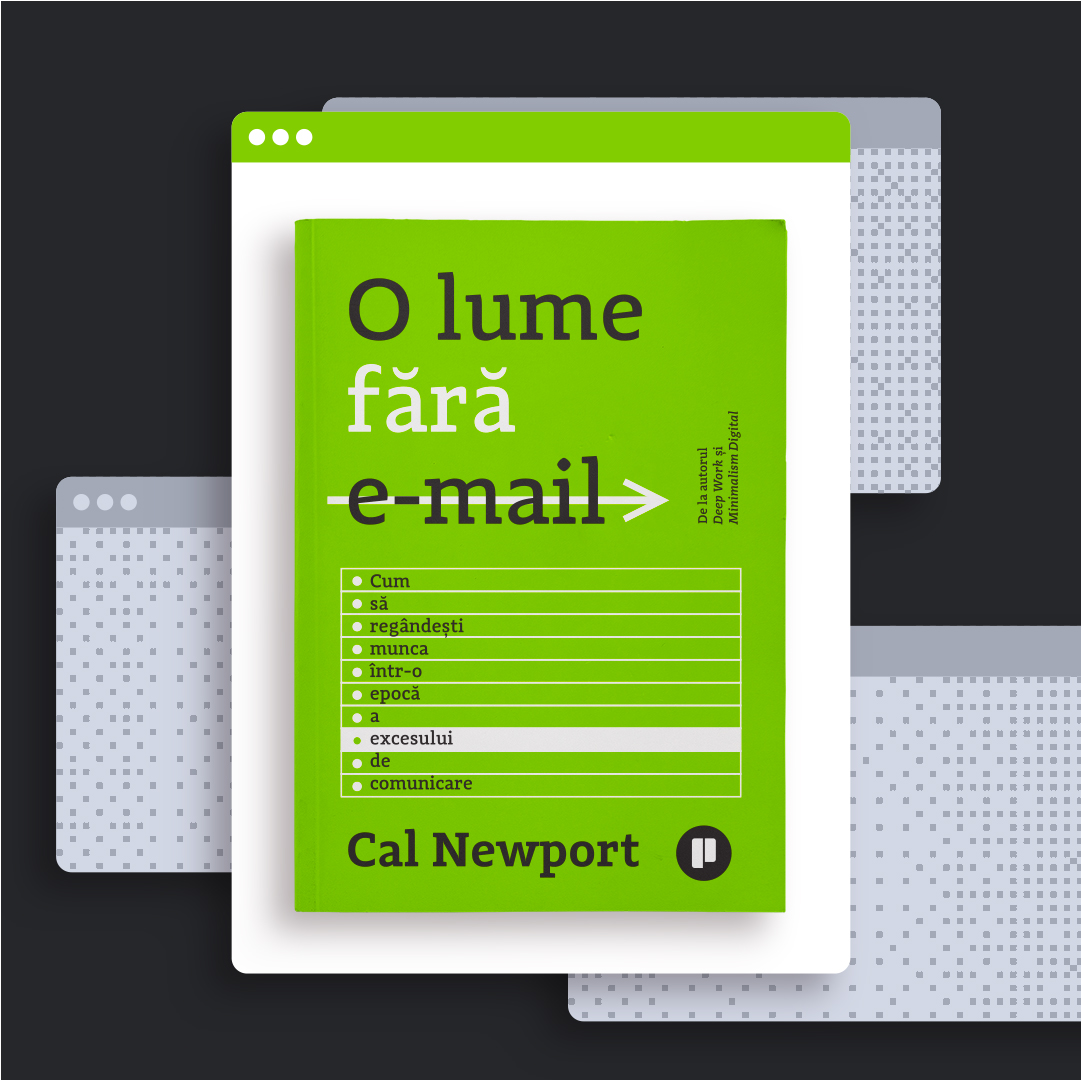
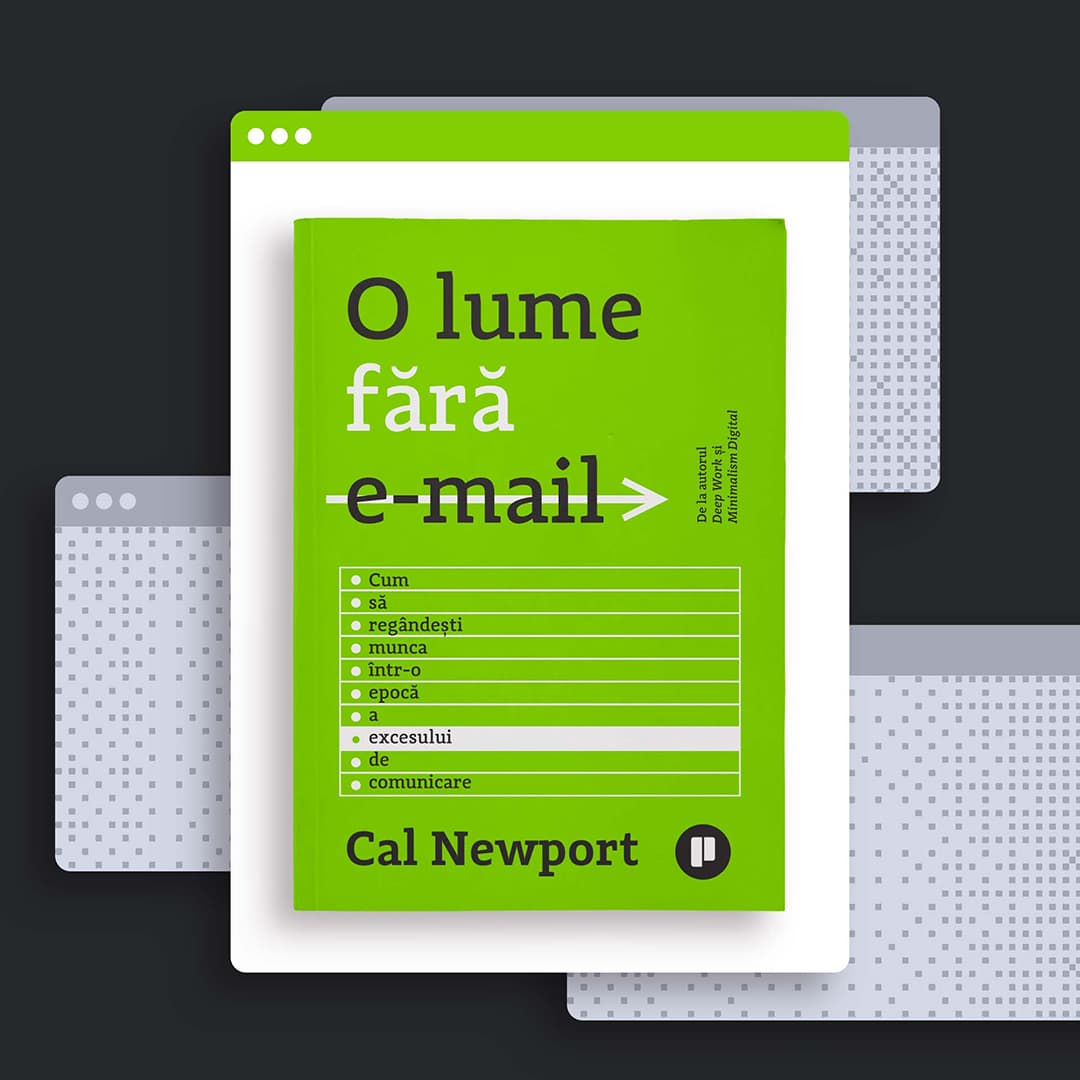
2021_12_15 • Content 01

diff --git a/2021/12_16/publica.ro-2021_12_16-R-dev.html b/2021/12_16/publica.ro-2021_12_16-R-dev.html
@@ -124,31 +124,42 @@
 						</div>
 						<div style="background-color: #ffffff; padding: 40px;" class="section">
 							<p class="paragraph"style="font-family: 'Piazzolla', serif; font-size: 20px; font-weight: 400; line-height: 32px;">
-								De peste un miliard de ani, fungii modifică felul în care se desfășoară viața: consumă roci, produc sol, digeră poluanți, hrănesc și ucid plante, supraviețuiesc în spațiu, provoacă viziuni, fac medicamente, produc hrană, manipulează comportamentul animalelor și influențează compoziția atmosferei Pământului. Fungii ne ajută să înțelegem planeta pe care trăim și modurile în care gândim, simțim și ne purtăm. Cu toate acestea, își duc viața în mare măsură nevăzuți și peste 90% dintre speciile lor rămân nedocumentate.
+								Ziua de lucru a multora dintre noi implică multă comunicare care circulă în toate direcțiile: schimb de mailuri, mesaje și conversații în aplicațiile de mesagerie. O vorbărie constantă de la care cu greu ne putem deconecta; în plus, e posibil să rămânem fără capacitate cognitivă pentru a avea câteva ore de muncă profundă necesară atingerii obiectivelor personale. Fie că ne sunt adresate sau suntem în Cc, fluxul de mailuri din Inbox de multe ori reușesc să dea la o parte orice metodă de productivitate avem și ajungem să ni se pară dificil să ne închipuim alternative. Dar acestea există.
 							</p>
 							<p class="paragraph"style="font-family: 'Piazzolla', serif; font-size: 20px; font-weight: 400; line-height: 32px;">
-								Tânărul și sclipitorul biolog Merlin Sheldrake ne dezvăluie în <a class="link-inline" style="font-family: 'Space Grotesk', sans-serif; font-size: 18px; letter-spacing: 0px; font-weight: 500; line-height: 28px; text-decoration: none; border-bottom: 2px solid #07baca; color: #07baca;" target="_blank" href="https://www.publica.ro/merlin-sheldrake-vieti-intretesute.html" title="Vieți întrețesute">Vieți întrețesute</a> modul fascinant în care aceste organisme extraordinare ne modifică înțelegerea asupra modului în care funcționează viața.
+								Cal Newport susține că modul în care abordăm munca este greșit și expune o serie de principii, protocoale și instrucțiuni concrete, adaptate la zilele noastre, pentru a remedia problema.  
 							</p>
 							<p class="paragraph"style="font-family: 'Piazzolla', serif; font-size: 20px; font-weight: 400; line-height: 32px;">
-								De la lichenii care supraviețuiesc în spațiu, la trufele prețioase care miros atrăgător, de la ciupercile care străpung cu ușurință asfaltul greu, la cele care ne îmbunătățesc sănătatea și la mixomicetele care găsesc cea mai rapidă rezolvare a labirinturilor, Sheldrake ne oferă o captivantă schimbare de perspectivă, mai ales în contextul problemelor cu care se chinuie omenirea: reducerea poluării, îmbunătățirea agriculturii și curățarea gunoaielor.
+								<a class="link-inline" style="font-family: 'Space Grotesk', sans-serif; font-size: 18px; letter-spacing: 0px; font-weight: 500; line-height: 28px; text-decoration: none; border-bottom: 2px solid #82cd00; color: #82cd00;" target="_blank" href="https://www.publica.ro/cal-newport-o-lume-fara-email.html" title="O lume fără email">O lume fără email</a> are un mesaj orientat spre viitor și militează pentru spații de lucru în care procesele clare – nu mesajele transmise la întâmplare – sunt cele care definesc identificarea, atribuirea și evaluarea sarcinilor. Dacă vrem să ne bucurăm de adevăratul potențial al rețelelor digitale în context profesional, trebuie să încercăm să optimizăm felul în care le folosim.
 							</p>
 							<div class="card" style="background-color: #ffffff; border: 1px solid #F3F5F7; margin-top: 40px; padding: 28px; border-radius: 16px; box-shadow: 0px 0px 10px rgba(0, 0, 0, 0.025), 0px 0px 80px rgba(0, 0, 0, 0.05);">
 								<p class="paragraph" style="color: #d0d8de; font-size: 32px; margin-bottom: 16px;" role="img" aria-label="quote">&#10078;</p>
 								<blockquote class="blockquote" style="padding: 0; margin: 0;">
 									<p class="paragraph"style="font-family: 'Piazzolla', serif; font-size: 20px; font-weight: 400; line-height: 32px; color: #000000;">
-										„Fidel numelui său, Merlin <span style="color: #a4adb4;">[vrăjitor]</span> ne poartă într-o călătorie magică, în adâncurile rădăcinilor naturii: universul micelian care există sub fiecare pas pe care îl facem în viață. Merlin este un povestitor iscusit, depănând povestea coevoluției noastre cu fungii sub forma unei aventuri științifice. <em>Vieți întrețesute</em> este o lectură obligatorie pentru oamenii de știință amatori ce speră să aducă schimbări pozitive pe această planetă sacră, pe care o împărțim.”
+										„Când apare o carte scrisă de Cal Newport, las totul și o citesc. Folosind dovezi și exemple concrete (de la programarea de top până la ce însemna munca din fabrici în urmă cu un secol), Newport susține că putem găsi ceva net superior e-mailului. Citiți această carte sublimă. S-ar putea să vă schimbe viața; în cazul meu a funcționat.”
 									</p>
-									<footer><cite style="color: #a4adb4; display: block; margin-top: 12px; font-family: 'Space Grotesk', sans-serif; font-size: 18px; letter-spacing: 0px; font-weight: 500; font-style: normal !important; line-height: 28px; text-decoration: none;">— Paul Stamets, micolog</cite></footer>
+									<footer><cite style="color: #a4adb4; display: block; margin-top: 12px; font-family: 'Space Grotesk', sans-serif; font-size: 18px; letter-spacing: 0px; font-weight: 500; font-style: normal !important; line-height: 28px; text-decoration: none;">— Tim Harford, autorul cărții <a class="link-inline" style="font-family: 'Space Grotesk', sans-serif; font-size: 18px; letter-spacing: 0px; font-weight: 500; line-height: 28px; text-decoration: none; border-bottom: 2px solid #000000; color: #000000;" target="_blank" href="https://www.publica.ro/tim-harford-dezordonat.html" title="Dezordonat">Dezordonat</a></cite></footer>
 								</blockquote>
 							</div>
 						</div>
-						<a title="Vieți întrețesute | Merlin Sheldrake | Editura Publica" href="https://www.publica.ro/merlin-sheldrake-vieti-intretesute.html" target="_blank" style="text-decoration: none; border: none !important;">
-							<img alt="Coperta cărții Vieți întrețesute"
-								src="https://newsletter.publica.ro/2021/12_16/img/publica.ro-2021_12_16-vieti_intretesute-nl_hero.jpg"
-								width="720" border="0" style="display: block; max-width: 100%; min-width: 100px; width: 100%; margin: 0; font-family: 'Piazzolla', serif; font-size: 20px; font-weight: 400; line-height: 32px; background-color: #0d2749; color: #ffffff;">
+						<a title="O lume fără e-mail | Cal Newport | Editura Publica" href="https://www.publica.ro/cal-newport-o-lume-fara-email.html" target="_blank" style="text-decoration: none; border: none !important;">
+							<img alt="Coperta cărții O lume fără e-mail"
+								src="https://newsletter.publica.ro/2021/12_16/img/publica.ro-2021_12_16-o_lume_fara_email-nl-hero.jpg"
+								width="720" border="0" style="display: block; max-width: 100%; min-width: 100px; width: 100%; margin: 0; font-family: 'Piazzolla', serif; font-size: 20px; font-weight: 400; line-height: 32px; background-color: #26272a; color: #ffffff;">
 						</a>
-						<div style="background-color: #0d2749; padding: 0 40px 40px 40px;" class="section">
-							<a class="button" href="https://www.publica.ro/merlin-sheldrake-vieti-intretesute.html" title="Comandă cartea" target="_blank" style="background-color: #07baca; color: #ffffff; width: 280px; display: block; font-family: 'Space Grotesk', sans-serif; font-size: 18px; -webkit-text-size-adjust: none; font-weight: 500; line-height: 72px; letter-spacing: 0.5px; text-decoration: none; text-align: center; margin: 0 auto; border-radius: 12px; transition: background-color 0.4s ease; ">Comandă cartea</a>
+						<div style="background-color: #26272a; padding: 8px 40px 40px 40px;" class="section">
+							<ul>
+								<li style="font-family: 'Piazzolla', serif; font-size: 20px; font-weight: 400; line-height: 32px; color: #D2D8E6;">
+									Cartea este bestseller New York Times
+								</li>
+								<li style="font-family: 'Piazzolla', serif; font-size: 20px; font-weight: 400; line-height: 32px; color: #D2D8E6;">
+									Află despre conștiința colectivă hiperactivă 
+								</li>
+								<li style="font-family: 'Piazzolla', serif; font-size: 20px; font-weight: 400; line-height: 32px; color: #D2D8E6;">
+									Ford a revoluționat productivitatea în fabrici, Newport face același lucru pentru munca intelectuală
+								</li>
+							</ul>
+							<a class="button" href="https://www.publica.ro/cal-newport-o-lume-fara-email.html" title="Comandă cartea" target="_blank" style="background-color: #82cd00; color: #000000; width: 280px; display: block; font-family: 'Space Grotesk', sans-serif; font-size: 18px; -webkit-text-size-adjust: none; font-weight: 500; line-height: 72px; letter-spacing: 0.5px; text-decoration: none; text-align: center; margin: 0 auto; border-radius: 12px; transition: background-color 0.4s ease; ">Comandă cartea</a>
 						</div>
 						<div style="background-color: #ffffff; padding: 40px;" class="section">
 							<div class="card" style="background-color: #ffffff; border: 1px solid #F3F5F7; padding: 28px; border-radius: 16px; box-shadow: 0px 0px 10px rgba(0, 0, 0, 0.025), 0px 0px 80px rgba(0, 0, 0, 0.05);">
@@ -434,7 +445,7 @@
 							</p>
 							<hr>
 							<p class="paragraph"style="font-family: 'Piazzolla', serif; font-size: 20px; font-weight: 400; line-height: 32px; color: #000000;">
-								&#127812;&nbsp;&nbsp; A inspirat colecția de haute couture semnată de Iris van Herpen, <a class="link-inline" style="font-family: 'Space Grotesk', sans-serif; font-size: 18px; letter-spacing: 0px; font-weight: 500; line-height: 28px; text-decoration: none; border-bottom: 2px solid #07baca; color: #07baca; white-space: nowrap;" target="_blank" href="https://www.youtube.com/watch?v=bT4_xLjaxH0&t" title="Roots of Rebirth">Roots of Rebirth</a>.
+								&#127812;&nbsp;&nbsp; A inspirat colecția de haute couture semnată de Iris van Herpen, <a class="link-inline" style="font-family: 'Space Grotesk', sans-serif; font-size: 18px; letter-spacing: 0px; font-weight: 500; line-height: 28px; text-decoration: none; border-bottom: 2px solid #82cd00; color: #82cd00; white-space: nowrap;" target="_blank" href="https://www.youtube.com/watch?v=bT4_xLjaxH0&t" title="Roots of Rebirth">Roots of Rebirth</a>.
 							</p>
 							<hr>
 							<p class="paragraph"style="font-family: 'Piazzolla', serif; font-size: 20px; font-weight: 400; line-height: 32px; color: #000000;">
@@ -475,13 +486,13 @@
 						</p>
 						<p class="paragraph"style="font-family: 'Piazzolla', serif; font-size: 20px; font-weight: 400; line-height: 32px;">
 							Urmărește-ne și pe:<br />
-							<a class="link-inline" style="font-family: 'Space Grotesk', sans-serif; font-size: 18px; letter-spacing: 0px; font-weight: 500; line-height: 28px; text-decoration: none; border-bottom: 2px solid #07baca; color: #07baca;" href="https://www.goodreads.com/user/show/56158609-editura-publica" target="_blank">Goodreads</a> · 
-							<a class="link-inline" style="font-family: 'Space Grotesk', sans-serif; font-size: 18px; letter-spacing: 0px; font-weight: 500; line-height: 28px; text-decoration: none; border-bottom: 2px solid #07baca; color: #07baca;" href="https://www.instagram.com/editurapublica" target="_blank">Instagram</a> · 
-							<a class="link-inline" style="font-family: 'Space Grotesk', sans-serif; font-size: 18px; letter-spacing: 0px; font-weight: 500; line-height: 28px; text-decoration: none; border-bottom: 2px solid #07baca; color: #07baca;" href="https://www.facebook.com/editurapublica" target="_blank">Facebook</a> · 
-							<a class="link-inline" style="font-family: 'Space Grotesk', sans-serif; font-size: 18px; letter-spacing: 0px; font-weight: 500; line-height: 28px; text-decoration: none; border-bottom: 2px solid #07baca; color: #07baca;" href="https://www.pinterest.com/editurapublica" target="_blank">Pinterest</a> · 
-							<a class="link-inline" style="font-family: 'Space Grotesk', sans-serif; font-size: 18px; letter-spacing: 0px; font-weight: 500; line-height: 28px; text-decoration: none; border-bottom: 2px solid #07baca; color: #07baca;" href="https://www.youtube.com/user/meetthethinkers" target="_blank">Youtube</a> · 
-							<a class="link-inline" style="font-family: 'Space Grotesk', sans-serif; font-size: 18px; letter-spacing: 0px; font-weight: 500; line-height: 28px; text-decoration: none; border-bottom: 2px solid #07baca; color: #07baca;" href="https://twitter.com/edituraPublica" target="_blank">Twitter</a> · 
-							<a class="link-inline" style="font-family: 'Space Grotesk', sans-serif; font-size: 18px; letter-spacing: 0px; font-weight: 500; line-height: 28px; text-decoration: none; border-bottom: 2px solid #07baca; color: #07baca;" href="https://blog.publica.ro" target="_blank">Blog</a>
+							<a class="link-inline" style="font-family: 'Space Grotesk', sans-serif; font-size: 18px; letter-spacing: 0px; font-weight: 500; line-height: 28px; text-decoration: none; border-bottom: 2px solid #82cd00; color: #82cd00;" href="https://www.goodreads.com/user/show/56158609-editura-publica" target="_blank">Goodreads</a> · 
+							<a class="link-inline" style="font-family: 'Space Grotesk', sans-serif; font-size: 18px; letter-spacing: 0px; font-weight: 500; line-height: 28px; text-decoration: none; border-bottom: 2px solid #82cd00; color: #82cd00;" href="https://www.instagram.com/editurapublica" target="_blank">Instagram</a> · 
+							<a class="link-inline" style="font-family: 'Space Grotesk', sans-serif; font-size: 18px; letter-spacing: 0px; font-weight: 500; line-height: 28px; text-decoration: none; border-bottom: 2px solid #82cd00; color: #82cd00;" href="https://www.facebook.com/editurapublica" target="_blank">Facebook</a> · 
+							<a class="link-inline" style="font-family: 'Space Grotesk', sans-serif; font-size: 18px; letter-spacing: 0px; font-weight: 500; line-height: 28px; text-decoration: none; border-bottom: 2px solid #82cd00; color: #82cd00;" href="https://www.pinterest.com/editurapublica" target="_blank">Pinterest</a> · 
+							<a class="link-inline" style="font-family: 'Space Grotesk', sans-serif; font-size: 18px; letter-spacing: 0px; font-weight: 500; line-height: 28px; text-decoration: none; border-bottom: 2px solid #82cd00; color: #82cd00;" href="https://www.youtube.com/user/meetthethinkers" target="_blank">Youtube</a> · 
+							<a class="link-inline" style="font-family: 'Space Grotesk', sans-serif; font-size: 18px; letter-spacing: 0px; font-weight: 500; line-height: 28px; text-decoration: none; border-bottom: 2px solid #82cd00; color: #82cd00;" href="https://twitter.com/edituraPublica" target="_blank">Twitter</a> · 
+							<a class="link-inline" style="font-family: 'Space Grotesk', sans-serif; font-size: 18px; letter-spacing: 0px; font-weight: 500; line-height: 28px; text-decoration: none; border-bottom: 2px solid #82cd00; color: #82cd00;" href="https://blog.publica.ro" target="_blank">Blog</a>
 						</p>
 						<p class="paragraph"style="font-family: 'Piazzolla', serif; font-size: 20px; font-weight: 400; line-height: 32px;">
 							*|IF:FNAME|**|TITLE:FNAME|*, primești *|ELSE:|*Primești*|END:IF|* acest newsletter pentru că te-ai

diff --git a/2021/12_16/publica.ro-2021_12_16-R-prod.html b/2021/12_16/publica.ro-2021_12_16-R-prod.html
@@ -124,31 +124,42 @@
 						</div>
 						<div style="background-color: #ffffff; padding: 40px;" class="section">
 							<p class="paragraph"style="font-family: 'Piazzolla', serif; font-size: 20px; font-weight: 400; line-height: 32px;">
-								De peste un miliard de ani, fungii modifică felul în care se desfășoară viața: consumă roci, produc sol, digeră poluanți, hrănesc și ucid plante, supraviețuiesc în spațiu, provoacă viziuni, fac medicamente, produc hrană, manipulează comportamentul animalelor și influențează compoziția atmosferei Pământului. Fungii ne ajută să înțelegem planeta pe care trăim și modurile în care gândim, simțim și ne purtăm. Cu toate acestea, își duc viața în mare măsură nevăzuți și peste 90% dintre speciile lor rămân nedocumentate.
+								Ziua de lucru a multora dintre noi implică multă comunicare care circulă în toate direcțiile: schimb de mailuri, mesaje și conversații în aplicațiile de mesagerie. O vorbărie constantă de la care cu greu ne putem deconecta; în plus, e posibil să rămânem fără capacitate cognitivă pentru a avea câteva ore de muncă profundă necesară atingerii obiectivelor personale. Fie că ne sunt adresate sau suntem în Cc, fluxul de mailuri din Inbox de multe ori reușesc să dea la o parte orice metodă de productivitate avem și ajungem să ni se pară dificil să ne închipuim alternative. Dar acestea există.
 							</p>
 							<p class="paragraph"style="font-family: 'Piazzolla', serif; font-size: 20px; font-weight: 400; line-height: 32px;">
-								Tânărul și sclipitorul biolog Merlin Sheldrake ne dezvăluie în <a class="link-inline" style="font-family: 'Space Grotesk', sans-serif; font-size: 18px; letter-spacing: 0px; font-weight: 500; line-height: 28px; text-decoration: none; border-bottom: 2px solid #07baca; color: #07baca;" target="_blank" href="https://www.publica.ro/merlin-sheldrake-vieti-intretesute.html" title="Vieți întrețesute">Vieți întrețesute</a> modul fascinant în care aceste organisme extraordinare ne modifică înțelegerea asupra modului în care funcționează viața.
+								Cal Newport susține că modul în care abordăm munca este greșit și expune o serie de principii, protocoale și instrucțiuni concrete, adaptate la zilele noastre, pentru a remedia problema.  
 							</p>
 							<p class="paragraph"style="font-family: 'Piazzolla', serif; font-size: 20px; font-weight: 400; line-height: 32px;">
-								De la lichenii care supraviețuiesc în spațiu, la trufele prețioase care miros atrăgător, de la ciupercile care străpung cu ușurință asfaltul greu, la cele care ne îmbunătățesc sănătatea și la mixomicetele care găsesc cea mai rapidă rezolvare a labirinturilor, Sheldrake ne oferă o captivantă schimbare de perspectivă, mai ales în contextul problemelor cu care se chinuie omenirea: reducerea poluării, îmbunătățirea agriculturii și curățarea gunoaielor.
+								<a class="link-inline" style="font-family: 'Space Grotesk', sans-serif; font-size: 18px; letter-spacing: 0px; font-weight: 500; line-height: 28px; text-decoration: none; border-bottom: 2px solid #82cd00; color: #82cd00;" target="_blank" href="https://www.publica.ro/cal-newport-o-lume-fara-email.html" title="O lume fără email">O lume fără email</a> are un mesaj orientat spre viitor și militează pentru spații de lucru în care procesele clare – nu mesajele transmise la întâmplare – sunt cele care definesc identificarea, atribuirea și evaluarea sarcinilor. Dacă vrem să ne bucurăm de adevăratul potențial al rețelelor digitale în context profesional, trebuie să încercăm să optimizăm felul în care le folosim.
 							</p>
 							<div class="card" style="background-color: #ffffff; border: 1px solid #F3F5F7; margin-top: 40px; padding: 28px; border-radius: 16px; box-shadow: 0px 0px 10px rgba(0, 0, 0, 0.025), 0px 0px 80px rgba(0, 0, 0, 0.05);">
 								<p class="paragraph" style="color: #d0d8de; font-size: 32px; margin-bottom: 16px;" role="img" aria-label="quote">&#10078;</p>
 								<blockquote class="blockquote" style="padding: 0; margin: 0;">
 									<p class="paragraph"style="font-family: 'Piazzolla', serif; font-size: 20px; font-weight: 400; line-height: 32px; color: #000000;">
-										„Fidel numelui său, Merlin <span style="color: #a4adb4;">[vrăjitor]</span> ne poartă într-o călătorie magică, în adâncurile rădăcinilor naturii: universul micelian care există sub fiecare pas pe care îl facem în viață. Merlin este un povestitor iscusit, depănând povestea coevoluției noastre cu fungii sub forma unei aventuri științifice. <em>Vieți întrețesute</em> este o lectură obligatorie pentru oamenii de știință amatori ce speră să aducă schimbări pozitive pe această planetă sacră, pe care o împărțim.”
+										„Când apare o carte scrisă de Cal Newport, las totul și o citesc. Folosind dovezi și exemple concrete (de la programarea de top până la ce însemna munca din fabrici în urmă cu un secol), Newport susține că putem găsi ceva net superior e-mailului. Citiți această carte sublimă. S-ar putea să vă schimbe viața; în cazul meu a funcționat.”
 									</p>
-									<footer><cite style="color: #a4adb4; display: block; margin-top: 12px; font-family: 'Space Grotesk', sans-serif; font-size: 18px; letter-spacing: 0px; font-weight: 500; font-style: normal !important; line-height: 28px; text-decoration: none;">— Paul Stamets, micolog</cite></footer>
+									<footer><cite style="color: #a4adb4; display: block; margin-top: 12px; font-family: 'Space Grotesk', sans-serif; font-size: 18px; letter-spacing: 0px; font-weight: 500; font-style: normal !important; line-height: 28px; text-decoration: none;">— Tim Harford, autorul cărții <a class="link-inline" style="font-family: 'Space Grotesk', sans-serif; font-size: 18px; letter-spacing: 0px; font-weight: 500; line-height: 28px; text-decoration: none; border-bottom: 2px solid #000000; color: #000000;" target="_blank" href="https://www.publica.ro/tim-harford-dezordonat.html" title="Dezordonat">Dezordonat</a></cite></footer>
 								</blockquote>
 							</div>
 						</div>
-						<a title="Vieți întrețesute | Merlin Sheldrake | Editura Publica" href="https://www.publica.ro/merlin-sheldrake-vieti-intretesute.html" target="_blank" style="text-decoration: none; border: none !important;">
-							<img alt="Coperta cărții Vieți întrețesute"
-								src="https://newsletter.publica.ro/2021/12_16/img/publica.ro-2021_12_16-vieti_intretesute-nl_hero.jpg"
-								width="720" border="0" style="display: block; max-width: 100%; min-width: 100px; width: 100%; margin: 0; font-family: 'Piazzolla', serif; font-size: 20px; font-weight: 400; line-height: 32px; background-color: #0d2749; color: #ffffff;">
+						<a title="O lume fără e-mail | Cal Newport | Editura Publica" href="https://www.publica.ro/cal-newport-o-lume-fara-email.html" target="_blank" style="text-decoration: none; border: none !important;">
+							<img alt="Coperta cărții O lume fără e-mail"
+								src="https://newsletter.publica.ro/2021/12_16/img/publica.ro-2021_12_16-o_lume_fara_email-nl-hero.jpg"
+								width="720" border="0" style="display: block; max-width: 100%; min-width: 100px; width: 100%; margin: 0; font-family: 'Piazzolla', serif; font-size: 20px; font-weight: 400; line-height: 32px; background-color: #26272a; color: #ffffff;">
 						</a>
-						<div style="background-color: #0d2749; padding: 0 40px 40px 40px;" class="section">
-							<a class="button" href="https://www.publica.ro/merlin-sheldrake-vieti-intretesute.html" title="Comandă cartea" target="_blank" style="background-color: #07baca; color: #ffffff; width: 280px; display: block; font-family: 'Space Grotesk', sans-serif; font-size: 18px; -webkit-text-size-adjust: none; font-weight: 500; line-height: 72px; letter-spacing: 0.5px; text-decoration: none; text-align: center; margin: 0 auto; border-radius: 12px; transition: background-color 0.4s ease; ">Comandă cartea</a>
+						<div style="background-color: #26272a; padding: 8px 40px 40px 40px;" class="section">
+							<ul>
+								<li style="font-family: 'Piazzolla', serif; font-size: 20px; font-weight: 400; line-height: 32px; color: #D2D8E6;">
+									Cartea este bestseller New York Times
+								</li>
+								<li style="font-family: 'Piazzolla', serif; font-size: 20px; font-weight: 400; line-height: 32px; color: #D2D8E6;">
+									Află despre conștiința colectivă hiperactivă 
+								</li>
+								<li style="font-family: 'Piazzolla', serif; font-size: 20px; font-weight: 400; line-height: 32px; color: #D2D8E6;">
+									Ford a revoluționat productivitatea în fabrici, Newport face același lucru pentru munca intelectuală
+								</li>
+							</ul>
+							<a class="button" href="https://www.publica.ro/cal-newport-o-lume-fara-email.html" title="Comandă cartea" target="_blank" style="background-color: #82cd00; color: #000000; width: 280px; display: block; font-family: 'Space Grotesk', sans-serif; font-size: 18px; -webkit-text-size-adjust: none; font-weight: 500; line-height: 72px; letter-spacing: 0.5px; text-decoration: none; text-align: center; margin: 0 auto; border-radius: 12px; transition: background-color 0.4s ease; ">Comandă cartea</a>
 						</div>
 						<div style="background-color: #ffffff; padding: 40px;" class="section">
 							<div class="card" style="background-color: #ffffff; border: 1px solid #F3F5F7; padding: 28px; border-radius: 16px; box-shadow: 0px 0px 10px rgba(0, 0, 0, 0.025), 0px 0px 80px rgba(0, 0, 0, 0.05);">
@@ -434,7 +445,7 @@
 							</p>
 							<hr>
 							<p class="paragraph"style="font-family: 'Piazzolla', serif; font-size: 20px; font-weight: 400; line-height: 32px; color: #000000;">
-								&#127812;&nbsp;&nbsp; A inspirat colecția de haute couture semnată de Iris van Herpen, <a class="link-inline" style="font-family: 'Space Grotesk', sans-serif; font-size: 18px; letter-spacing: 0px; font-weight: 500; line-height: 28px; text-decoration: none; border-bottom: 2px solid #07baca; color: #07baca; white-space: nowrap;" target="_blank" href="https://www.youtube.com/watch?v=bT4_xLjaxH0&t" title="Roots of Rebirth">Roots of Rebirth</a>.
+								&#127812;&nbsp;&nbsp; A inspirat colecția de haute couture semnată de Iris van Herpen, <a class="link-inline" style="font-family: 'Space Grotesk', sans-serif; font-size: 18px; letter-spacing: 0px; font-weight: 500; line-height: 28px; text-decoration: none; border-bottom: 2px solid #82cd00; color: #82cd00; white-space: nowrap;" target="_blank" href="https://www.youtube.com/watch?v=bT4_xLjaxH0&t" title="Roots of Rebirth">Roots of Rebirth</a>.
 							</p>
 							<hr>
 							<p class="paragraph"style="font-family: 'Piazzolla', serif; font-size: 20px; font-weight: 400; line-height: 32px; color: #000000;">
@@ -475,13 +486,13 @@
 						</p>
 						<p class="paragraph"style="font-family: 'Piazzolla', serif; font-size: 20px; font-weight: 400; line-height: 32px;">
 							Urmărește-ne și pe:<br />
-							<a class="link-inline" style="font-family: 'Space Grotesk', sans-serif; font-size: 18px; letter-spacing: 0px; font-weight: 500; line-height: 28px; text-decoration: none; border-bottom: 2px solid #07baca; color: #07baca;" href="https://www.goodreads.com/user/show/56158609-editura-publica" target="_blank">Goodreads</a> · 
-							<a class="link-inline" style="font-family: 'Space Grotesk', sans-serif; font-size: 18px; letter-spacing: 0px; font-weight: 500; line-height: 28px; text-decoration: none; border-bottom: 2px solid #07baca; color: #07baca;" href="https://www.instagram.com/editurapublica" target="_blank">Instagram</a> · 
-							<a class="link-inline" style="font-family: 'Space Grotesk', sans-serif; font-size: 18px; letter-spacing: 0px; font-weight: 500; line-height: 28px; text-decoration: none; border-bottom: 2px solid #07baca; color: #07baca;" href="https://www.facebook.com/editurapublica" target="_blank">Facebook</a> · 
-							<a class="link-inline" style="font-family: 'Space Grotesk', sans-serif; font-size: 18px; letter-spacing: 0px; font-weight: 500; line-height: 28px; text-decoration: none; border-bottom: 2px solid #07baca; color: #07baca;" href="https://www.pinterest.com/editurapublica" target="_blank">Pinterest</a> · 
-							<a class="link-inline" style="font-family: 'Space Grotesk', sans-serif; font-size: 18px; letter-spacing: 0px; font-weight: 500; line-height: 28px; text-decoration: none; border-bottom: 2px solid #07baca; color: #07baca;" href="https://www.youtube.com/user/meetthethinkers" target="_blank">Youtube</a> · 
-							<a class="link-inline" style="font-family: 'Space Grotesk', sans-serif; font-size: 18px; letter-spacing: 0px; font-weight: 500; line-height: 28px; text-decoration: none; border-bottom: 2px solid #07baca; color: #07baca;" href="https://twitter.com/edituraPublica" target="_blank">Twitter</a> · 
-							<a class="link-inline" style="font-family: 'Space Grotesk', sans-serif; font-size: 18px; letter-spacing: 0px; font-weight: 500; line-height: 28px; text-decoration: none; border-bottom: 2px solid #07baca; color: #07baca;" href="https://blog.publica.ro" target="_blank">Blog</a>
+							<a class="link-inline" style="font-family: 'Space Grotesk', sans-serif; font-size: 18px; letter-spacing: 0px; font-weight: 500; line-height: 28px; text-decoration: none; border-bottom: 2px solid #82cd00; color: #82cd00;" href="https://www.goodreads.com/user/show/56158609-editura-publica" target="_blank">Goodreads</a> · 
+							<a class="link-inline" style="font-family: 'Space Grotesk', sans-serif; font-size: 18px; letter-spacing: 0px; font-weight: 500; line-height: 28px; text-decoration: none; border-bottom: 2px solid #82cd00; color: #82cd00;" href="https://www.instagram.com/editurapublica" target="_blank">Instagram</a> · 
+							<a class="link-inline" style="font-family: 'Space Grotesk', sans-serif; font-size: 18px; letter-spacing: 0px; font-weight: 500; line-height: 28px; text-decoration: none; border-bottom: 2px solid #82cd00; color: #82cd00;" href="https://www.facebook.com/editurapublica" target="_blank">Facebook</a> · 
+							<a class="link-inline" style="font-family: 'Space Grotesk', sans-serif; font-size: 18px; letter-spacing: 0px; font-weight: 500; line-height: 28px; text-decoration: none; border-bottom: 2px solid #82cd00; color: #82cd00;" href="https://www.pinterest.com/editurapublica" target="_blank">Pinterest</a> · 
+							<a class="link-inline" style="font-family: 'Space Grotesk', sans-serif; font-size: 18px; letter-spacing: 0px; font-weight: 500; line-height: 28px; text-decoration: none; border-bottom: 2px solid #82cd00; color: #82cd00;" href="https://www.youtube.com/user/meetthethinkers" target="_blank">Youtube</a> · 
+							<a class="link-inline" style="font-family: 'Space Grotesk', sans-serif; font-size: 18px; letter-spacing: 0px; font-weight: 500; line-height: 28px; text-decoration: none; border-bottom: 2px solid #82cd00; color: #82cd00;" href="https://twitter.com/edituraPublica" target="_blank">Twitter</a> · 
+							<a class="link-inline" style="font-family: 'Space Grotesk', sans-serif; font-size: 18px; letter-spacing: 0px; font-weight: 500; line-height: 28px; text-decoration: none; border-bottom: 2px solid #82cd00; color: #82cd00;" href="https://blog.publica.ro" target="_blank">Blog</a>
 						</p>
 						<p class="paragraph"style="font-family: 'Piazzolla', serif; font-size: 20px; font-weight: 400; line-height: 32px;">
 							*|IF:FNAME|**|TITLE:FNAME|*, primești *|ELSE:|*Primești*|END:IF|* acest newsletter pentru că te-ai
